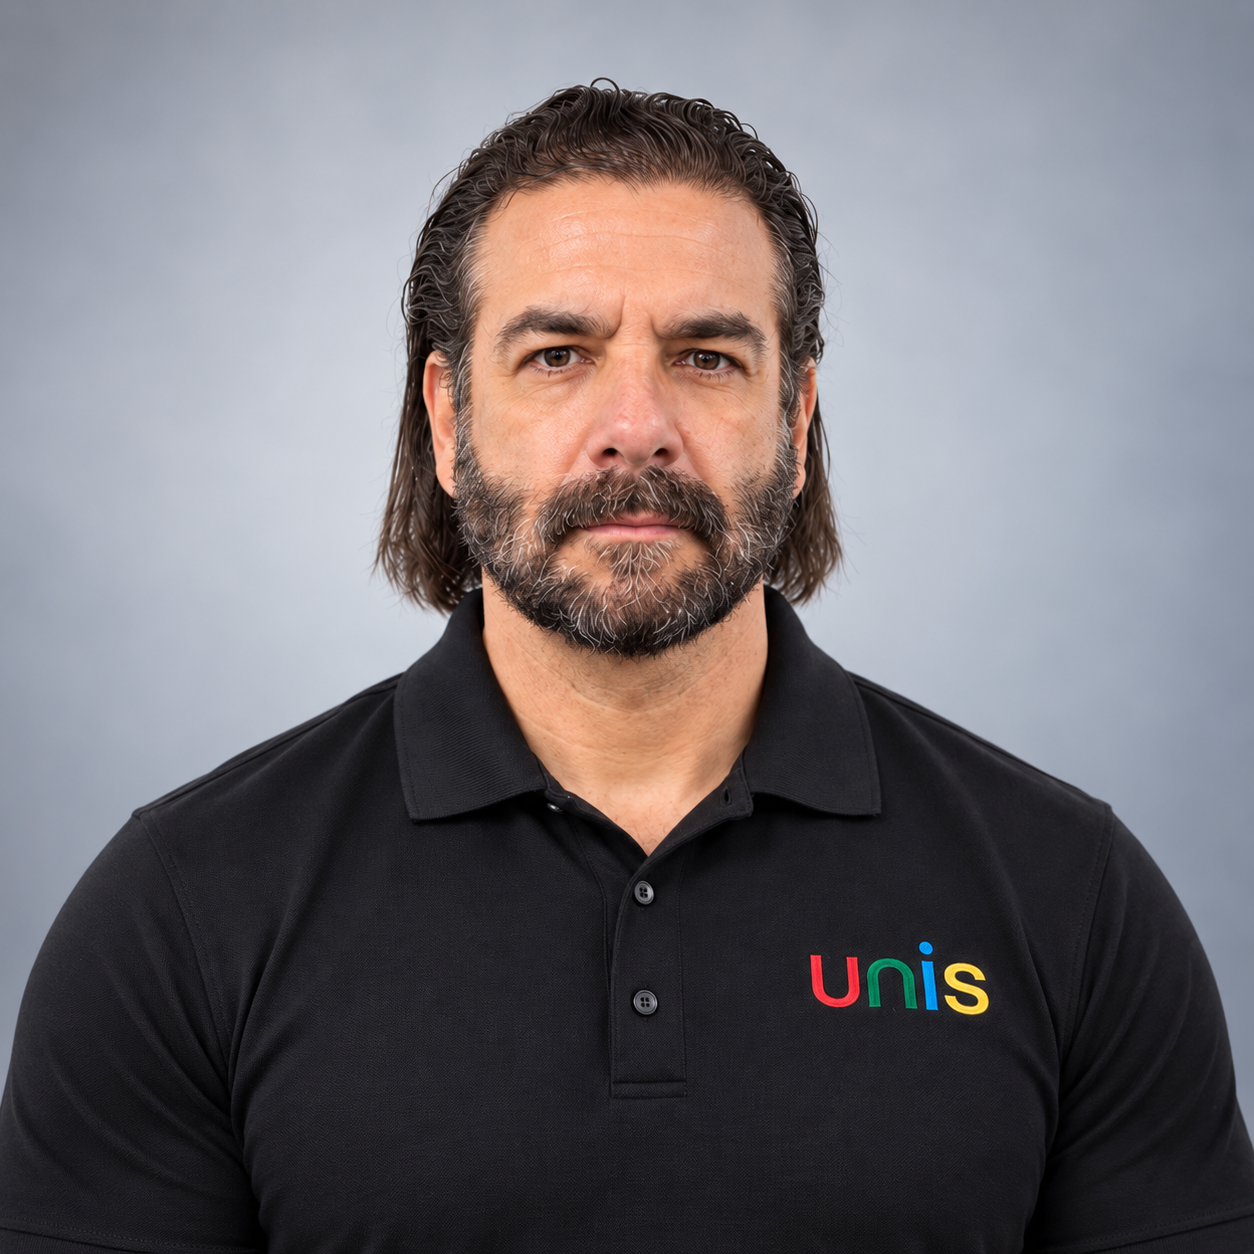
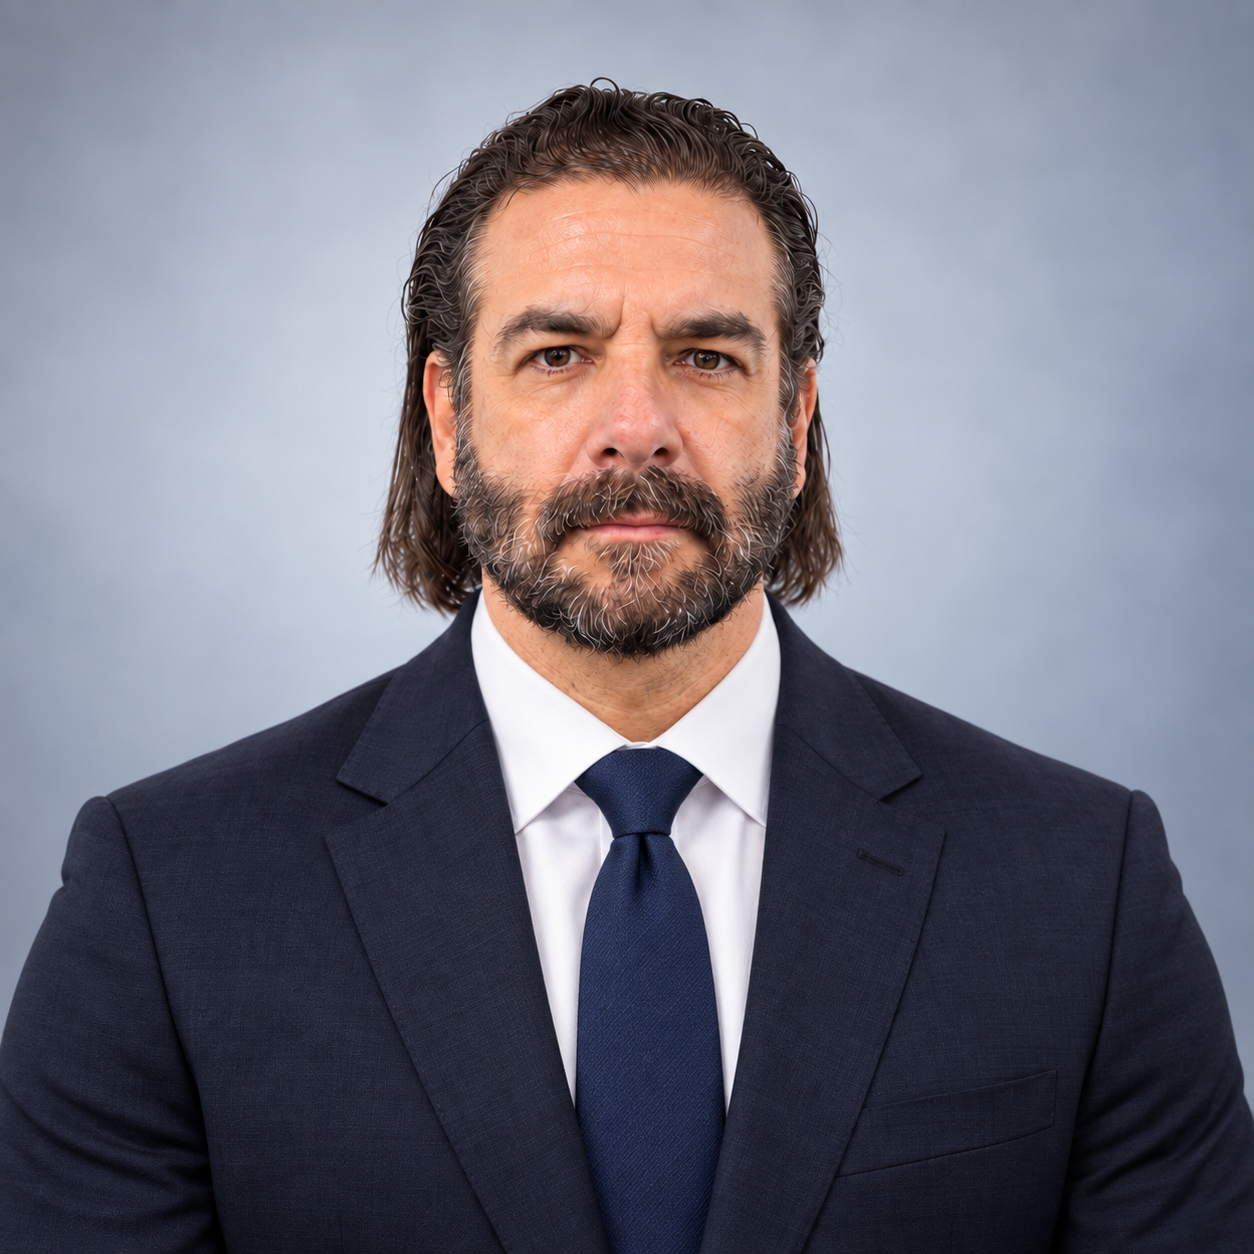
Update Ruben Jauregui portrait and correct John Diaz title
- Replace the Valley View portrait for Ruben Jauregui with the new
  user-supplied 1254x1254 photo (same asset path).
- Correct John Diaz's role to "Sr. Vice President of Operations" across
  all ten contact entries via a shared JOHN_DIAZ_ROLE constant, and note
  the user correction in each affected record's source line.
- Update e2e coverage for the new title (rendering, wrapping, PDF
  keywords) and the new portrait's source file.

diff --git a/src/data/facility-operations.ts b/src/data/facility-operations.ts
@@ -26,6 +26,8 @@ export type FacilityOperations = {
 
 export const JOHN_DIAZ_EMAIL = 'john.diaz@unisco.com'
 export const JOHN_DIAZ_PHOTO_URL = '/media/operations/people/john-diaz.png'
+export const JOHN_DIAZ_ROLE = 'Sr. Vice President of Operations'
+export const JOHN_DIAZ_TITLE_SOURCE_NOTE = 'John Diaz title corrected by user on 2026-09-30.'
 
 const sheetContact = (
   sourceColumn: string,
@@ -48,7 +50,7 @@ const sheetContact = (
 const sheetOperations = (facilityId: string, sourceRow: number, contacts: FacilityContact[]): FacilityOperations => ({
   facilityId,
   sourceRow,
-  source: `User-provided facility contact sheet, row ${sourceRow}`,
+  source: `User-provided facility contact sheet, row ${sourceRow}${contacts.some((contact) => contact.email.trim().toLowerCase() === JOHN_DIAZ_EMAIL) ? ` · ${JOHN_DIAZ_TITLE_SOURCE_NOTE}` : ''}`,
   contacts,
 })
 
@@ -67,7 +69,7 @@ export const facilitiesNeedingOperationsContactReview = [
 export const facilityOperations: Partial<Record<string, FacilityOperations>> = {
   'buena-park-valley-view': {
     facilityId: 'buena-park-valley-view',
-    source: 'User-provided facility contact sheet, row 5',
+    source: `User-provided facility contact sheet, row 5 · ${JOHN_DIAZ_TITLE_SOURCE_NOTE}`,
     sourceRow: 5,
     contacts: [
       {
@@ -111,7 +113,7 @@ export const facilityOperations: Partial<Record<string, FacilityOperations>> = {
       {
         id: 'john-diaz',
         group: 'operations',
-        role: 'VP of Operations',
+        role: JOHN_DIAZ_ROLE,
         name: 'John Diaz',
         email: JOHN_DIAZ_EMAIL,
         photoUrl: JOHN_DIAZ_PHOTO_URL,
@@ -122,20 +124,20 @@ export const facilityOperations: Partial<Record<string, FacilityOperations>> = {
     sheetContact('D', 'account-management', 'Manager of Account Management & Client Onboarding', 'Michelle Topete', 'michelle.topete@unisco.com', [{ label: 'Phone', display: '626.829.3160', href: '+16268293160' }]),
     sheetContact('E', 'account-management', 'Sr Director of Account Management & Client Onboarding', 'Mary Smothers', 'mary.smothers@unisco.com', [{ label: 'Phone', display: '626-899-2363', href: '+16268992363' }]),
     sheetContact('F', 'operations', 'General Manager', 'Oscar Rodriguez', 'oscar.rodriguez@unisco.com', [{ label: 'Phone', display: '951-374-2495', href: '+19513742495' }]),
-    sheetContact('H', 'operations', 'VP of Operations', 'John Diaz', 'john.diaz@unisco.com'),
+    sheetContact('H', 'operations', JOHN_DIAZ_ROLE, 'John Diaz', 'john.diaz@unisco.com'),
     sheetContact('J', 'operations', 'Regional Director of Field Operations', 'Harold Cuarezma', 'harold.cuarezma@unisco.com', [{ label: 'Cell', display: '909-753-6346', href: '+19097536346' }, { label: 'Mobile', display: '626-362-9596', href: '+16263629596' }]),
   ]),
   'moreno-valley-heacock': sheetOperations('moreno-valley-heacock', 8, [
     sheetContact('D', 'account-management', 'Manager of Account Management & Client Onboarding', 'Michelle Topete', 'michelle.topete@unisco.com', [{ label: 'Phone', display: '626.829.3160', href: '+16268293160' }]),
     sheetContact('E', 'account-management', 'Sr Director of Account Management & Client Onboarding', 'Mary Smothers', 'mary.smothers@unisco.com', [{ label: 'Phone', display: '626-899-2363', href: '+16268992363' }]),
     sheetContact('F', 'operations', 'General Manager', 'Oscar Rodriguez', 'oscar.rodriguez@unisco.com'),
-    sheetContact('H', 'operations', 'VP of Operations', 'John Diaz', 'john.diaz@unisco.com'),
+    sheetContact('H', 'operations', JOHN_DIAZ_ROLE, 'John Diaz', 'john.diaz@unisco.com'),
     sheetContact('J', 'operations', 'Regional Director of Field Operations', 'Harold Cuarezma', 'harold.cuarezma@unisco.com', [{ label: 'Cell', display: '909-753-6346', href: '+19097536346' }, { label: 'Mobile', display: '626-362-9596', href: '+16263629596' }]),
   ]),
   'houston-citypark': sheetOperations('houston-citypark', 20, [
     sheetContact('D', 'account-management', 'Manager of Account Management & Client Onboarding', 'Michelle Topete', 'michelle.topete@unisco.com', [{ label: 'Phone', display: '626.829.3160', href: '+16268293160' }]),
     sheetContact('E', 'account-management', 'Sr Director of Account Management & Client Onboarding', 'Mary Smothers', 'mary.smothers@unisco.com', [{ label: 'Phone', display: '626-899-2363', href: '+16268992363' }]),
-    sheetContact('H', 'operations', 'VP of Operations', 'John Diaz', 'john.diaz@unisco.com'),
+    sheetContact('H', 'operations', JOHN_DIAZ_ROLE, 'John Diaz', 'john.diaz@unisco.com'),
   ]),
   'roanoke-highway-114': sheetOperations('roanoke-highway-114', 23, [
     sheetContact('D', 'account-management', 'Manager of Account Management & Client Onboarding', 'Michelle Topete', 'michelle.topete@unisco.com', [{ label: 'Phone', display: '626.829.3160', href: '+16268293160' }]),
@@ -152,14 +154,14 @@ export const facilityOperations: Partial<Record<string, FacilityOperations>> = {
   'tacoma-lincoln': sheetOperations('tacoma-lincoln', 25, [
     sheetContact('D', 'account-management', 'Manager of Account Management & Client Onboarding', 'Michelle Topete', 'michelle.topete@unisco.com', [{ label: 'Phone', display: '626.829.3160', href: '+16268293160' }]),
     sheetContact('E', 'account-management', 'Sr Director of Account Management & Client Onboarding', 'Mary Smothers', 'mary.smothers@unisco.com', [{ label: 'Phone', display: '626-899-2363', href: '+16268992363' }]),
-    sheetContact('H', 'operations', 'VP of Operations', 'John Diaz', 'john.diaz@unisco.com'),
+    sheetContact('H', 'operations', JOHN_DIAZ_ROLE, 'John Diaz', 'john.diaz@unisco.com'),
     sheetContact('I', 'operations', 'POC as requested by John Diaz', 'Juan Barragan', 'juan.barragan@unisco.com', [{ label: 'Phone', display: '657-509-0607', href: '+16575090607' }]),
     sheetContact('J', 'operations', 'Regional Director of Field Operations', 'Harold Cuarezma', 'harold.cuarezma@unisco.com', [{ label: 'Cell', display: '909-753-6346', href: '+19097536346' }, { label: 'Mobile', display: '626-362-9596', href: '+16263629596' }]),
   ]),
   'tacoma-steele': sheetOperations('tacoma-steele', 26, [
     sheetContact('D', 'account-management', 'Manager of Account Management & Client Onboarding', 'Michelle Topete', 'michelle.topete@unisco.com', [{ label: 'Phone', display: '626.829.3160', href: '+16268293160' }]),
     sheetContact('E', 'account-management', 'Sr Director of Account Management & Client Onboarding', 'Mary Smothers', 'mary.smothers@unisco.com', [{ label: 'Phone', display: '626-899-2363', href: '+16268992363' }]),
-    sheetContact('H', 'operations', 'VP of Operations', 'John Diaz', 'john.diaz@unisco.com'),
+    sheetContact('H', 'operations', JOHN_DIAZ_ROLE, 'John Diaz', 'john.diaz@unisco.com'),
     sheetContact('I', 'operations', 'POC as requested by John Diaz', 'Juan Barragan', 'juan.barragan@unisco.com', [{ label: 'Phone', display: '657-509-0607', href: '+16575090607' }]),
     sheetContact('J', 'operations', 'Regional Director of Field Operations', 'Harold Cuarezma', 'harold.cuarezma@unisco.com', [{ label: 'Cell', display: '909-753-6346', href: '+19097536346' }, { label: 'Mobile', display: '626-362-9596', href: '+16263629596' }]),
   ]),
@@ -181,7 +183,7 @@ export const facilityOperations: Partial<Record<string, FacilityOperations>> = {
     sheetContact('D', 'account-management', 'Manager of Account Management & Client Onboarding', 'Michelle Topete', 'michelle.topete@unisco.com', [{ label: 'Phone', display: '626.829.3160', href: '+16268293160' }]),
     sheetContact('E', 'account-management', 'Sr Director of Account Management & Client Onboarding', 'Mary Smothers', 'mary.smothers@unisco.com', [{ label: 'Phone', display: '626-899-2363', href: '+16268992363' }]),
     sheetContact('F', 'operations', 'General Manager', 'Efrain Islas', 'efrain.islas@unisco.com', [{ label: 'Phone', display: '626-313-8756', href: '+16263138756' }]),
-    sheetContact('H', 'operations', 'VP of Operations', 'John Diaz', 'john.diaz@unisco.com'),
+    sheetContact('H', 'operations', JOHN_DIAZ_ROLE, 'John Diaz', 'john.diaz@unisco.com'),
   ]),
   'joliet-brandon': sheetOperations('joliet-brandon', 13, [
     sheetContact('D', 'account-management', 'Manager of Account Management & Client Onboarding', 'Michelle Topete', 'michelle.topete@unisco.com', [{ label: 'Phone', display: '626.829.3160', href: '+16268293160' }]),
@@ -197,21 +199,21 @@ export const facilityOperations: Partial<Record<string, FacilityOperations>> = {
   'waddell-cotton': sheetOperations('waddell-cotton', 3, [
     sheetContact('D', 'account-management', 'Manager of Account Management & Client Onboarding', 'Michelle Topete', 'michelle.topete@unisco.com', [{ label: 'Phone', display: '626.829.3160', href: '+16268293160' }]),
     sheetContact('E', 'account-management', 'Sr Director of Account Management & Client Onboarding', 'Mary Smothers', 'mary.smothers@unisco.com', [{ label: 'Phone', display: '626-899-2363', href: '+16268992363' }]),
-    sheetContact('H', 'operations', 'VP of Operations', 'John Diaz', 'john.diaz@unisco.com'),
+    sheetContact('H', 'operations', JOHN_DIAZ_ROLE, 'John Diaz', 'john.diaz@unisco.com'),
     sheetContact('J', 'operations', 'Regional Director of Field Operations', 'Harold Cuarezma', 'harold.cuarezma@unisco.com', [{ label: 'Cell', display: '909-753-6346', href: '+19097536346' }, { label: 'Mobile', display: '626-362-9596', href: '+16263629596' }]),
   ]),
   'ontario-airport': sheetOperations('ontario-airport', 7, [
     sheetContact('D', 'account-management', 'Manager of Account Management & Client Onboarding', 'Michelle Topete', 'michelle.topete@unisco.com', [{ label: 'Phone', display: '626.829.3160', href: '+16268293160' }]),
     sheetContact('E', 'account-management', 'Sr Director of Account Management & Client Onboarding', 'Mary Smothers', 'mary.smothers@unisco.com', [{ label: 'Phone', display: '626-899-2363', href: '+16268992363' }]),
     sheetContact('F', 'operations', 'General Manager', 'Oscar Rodriguez', 'oscar.rodriguez@unisco.com'),
-    sheetContact('H', 'operations', 'VP of Operations', 'John Diaz', 'john.diaz@unisco.com'),
+    sheetContact('H', 'operations', JOHN_DIAZ_ROLE, 'John Diaz', 'john.diaz@unisco.com'),
     sheetContact('J', 'operations', 'Regional Director of Field Operations', 'Harold Cuarezma', 'harold.cuarezma@unisco.com', [{ label: 'Cell', display: '909-753-6346', href: '+19097536346' }, { label: 'Mobile', display: '626-362-9596', href: '+16263629596' }]),
   ]),
   'sparks-vista': sheetOperations('sparks-vista', 15, [
     sheetContact('D', 'account-management', 'Manager of Account Management & Client Onboarding', 'Michelle Topete', 'michelle.topete@unisco.com', [{ label: 'Phone', display: '626.829.3160', href: '+16268293160' }]),
     sheetContact('E', 'account-management', 'Sr Director of Account Management & Client Onboarding', 'Mary Smothers', 'mary.smothers@unisco.com', [{ label: 'Phone', display: '626-899-2363', href: '+16268992363' }]),
     sheetContact('F', 'operations', 'General Manager', 'Onoriode Enaigbe', 'onoriode.enaigbe@unisco.com', [{ label: 'Cell', display: '(626) 996-5604', href: '+16269965604' }]),
-    sheetContact('H', 'operations', 'VP of Operations', 'John Diaz', 'john.diaz@unisco.com'),
+    sheetContact('H', 'operations', JOHN_DIAZ_ROLE, 'John Diaz', 'john.diaz@unisco.com'),
     sheetContact('I', 'operations', 'POC as requested by John Diaz', 'Juan Barragan', 'juan.barragan@unisco.com', [{ label: 'Phone', display: '657-509-0607', href: '+16575090607' }]),
     sheetContact('J', 'operations', 'Regional Director of Field Operations', 'Harold Cuarezma', 'harold.cuarezma@unisco.com', [{ label: 'Cell', display: '909-753-6346', href: '+19097536346' }, { label: 'Mobile', display: '626-362-9596', href: '+16263629596' }]),
   ]),

diff --git a/tests/dashboard.spec.ts b/tests/dashboard.spec.ts
@@ -11,6 +11,8 @@ import {
   facilityOperations,
   JOHN_DIAZ_EMAIL,
   JOHN_DIAZ_PHOTO_URL,
+  JOHN_DIAZ_ROLE,
+  JOHN_DIAZ_TITLE_SOURCE_NOTE,
 } from '../src/data/facility-operations'
 import { facilitySitePlans } from '../src/data/facility-site-plans'
 import { facilityAvailableSpace, formatAvailableSpaceMonth, getFacilitySquareFootage } from '../src/data/facility-space'
@@ -2010,7 +2012,8 @@ test('Operations sidecar maps 18 exact sheet rows, all 79 role entries, and exac
   for (const [facilityId, expected] of Object.entries(expectedOperationsRows)) {
     const record = facilityOperations[facilityId]
     expect(record?.sourceRow, facilityId).toBe(expected.row)
-    expect(record?.source, facilityId).toBe(`User-provided facility contact sheet, row ${expected.row}`)
+    const titleCorrection = expectedJohnDiazFacilityIds.some((id) => id === facilityId) ? ` · ${JOHN_DIAZ_TITLE_SOURCE_NOTE}` : ''
+    expect(record?.source, facilityId).toBe(`User-provided facility contact sheet, row ${expected.row}${titleCorrection}`)
     expect(new Set(record?.contacts.map((contact) => contact.id)).size, facilityId).toBe(record?.contacts.length)
     if (facilityId !== 'buena-park-valley-view') {
       expect(record?.contacts.map((contact) => contact.sourceColumn), facilityId).toEqual(expected.columns)
@@ -2039,8 +2042,19 @@ test('Operations sidecar maps 18 exact sheet rows, all 79 role entries, and exac
 
   const johnDiazReferences = Object.values(facilityOperations).flatMap((record) => record?.contacts
     .filter((contact) => contact.email.trim().toLowerCase() === JOHN_DIAZ_EMAIL)
-    .map((contact) => ({ facilityId: record.facilityId, name: contact.name, photoUrl: contact.photoUrl })) ?? [])
-  expect(johnDiazReferences).toEqual(expectedJohnDiazFacilityIds.map((facilityId) => ({ facilityId, name: 'John Diaz', photoUrl: JOHN_DIAZ_PHOTO_URL })))
+    .map((contact) => ({ facilityId: record.facilityId, name: contact.name, role: contact.role, photoUrl: contact.photoUrl, source: record.source })) ?? [])
+  expect(johnDiazReferences).toEqual(expectedJohnDiazFacilityIds.map((facilityId) => ({
+    facilityId,
+    name: 'John Diaz',
+    role: JOHN_DIAZ_ROLE,
+    photoUrl: JOHN_DIAZ_PHOTO_URL,
+    source: expect.stringContaining(JOHN_DIAZ_TITLE_SOURCE_NOTE),
+  })))
+
+  const otherVicePresidents = Object.values(facilityOperations).flatMap((record) => record?.contacts
+    .filter((contact) => contact.email !== JOHN_DIAZ_EMAIL && contact.role === 'VP of Operations')
+    .map((contact) => contact.name) ?? [])
+  expect(new Set(otherVicePresidents)).toEqual(new Set(['John Gleason', 'Javier Montane']))
 
   const otherPortraits = Object.values(facilityOperations).flatMap((record) => record?.contacts
     .filter((contact) => contact.email !== JOHN_DIAZ_EMAIL && contact.photoUrl)
@@ -2055,15 +2069,44 @@ test('Operations sidecar maps 18 exact sheet rows, all 79 role entries, and exac
   for (const facilityId of expectedOperationsReviewIds) expect(facilityOperations[facilityId]).toBeUndefined()
 })
 
+test('John Diaz corrected title renders exactly and wraps without clipping on desktop and mobile', async ({ page }) => {
+  const riverside = facilities.find((facility) => facility.id === 'riverside-alessandro')!
+  await chooseFromDirectory(page, riverside.fullAddress)
+  await page.getByRole('tab', { name: 'Operations' }).click()
+  const panel = page.getByRole('region', { name: `Operations contacts for ${riverside.fullAddress}` })
+  const john = panel.locator('.operations-contact-card').filter({ hasText: JOHN_DIAZ_EMAIL })
+  const role = john.locator('.operations-contact-role')
+
+  await expect(panel).toContainText(JOHN_DIAZ_TITLE_SOURCE_NOTE)
+  await expect(role).toHaveText(JOHN_DIAZ_ROLE)
+  await expect(panel.getByText('VP of Operations', { exact: true })).toHaveCount(0)
+
+  for (const viewport of [{ width: 1536, height: 900 }, { width: 390, height: 844 }]) {
+    await page.setViewportSize(viewport)
+    await role.scrollIntoViewIfNeeded()
+    const layout = await role.evaluate((element) => ({
+      horizontalClipping: element.scrollWidth > element.clientWidth + 1,
+      verticalClipping: element.scrollHeight > element.clientHeight + 1,
+      whiteSpace: getComputedStyle(element).whiteSpace,
+    }))
+    expect(layout).toEqual({ horizontalClipping: false, verticalClipping: false, whiteSpace: 'normal' })
+    const [cardBox, panelBox] = await Promise.all([john.boundingBox(), panel.boundingBox()])
+    expect(cardBox).not.toBeNull()
+    expect(panelBox).not.toBeNull()
+    expect(cardBox!.x).toBeGreaterThanOrEqual(panelBox!.x)
+    expect(cardBox!.x + cardBox!.width).toBeLessThanOrEqual(panelBox!.x + panelBox!.width + 1)
+  }
+})
+
 test('Valley View Operations preserves five contacts and its three supplied portraits', async ({ page }) => {
   const record = facilityOperations['buena-park-valley-view']
-  expect(record?.source).toBe('User-provided facility contact sheet, row 5')
+  expect(record?.source).toBe(`User-provided facility contact sheet, row 5 · ${JOHN_DIAZ_TITLE_SOURCE_NOTE}`)
   expect(record?.contacts).toEqual([
     expect.objectContaining({ group: 'account-management', role: 'Manager of Account Management & Client Onboarding', name: 'Michelle Topete', email: 'michelle.topete@unisco.com', phone: '626.829.3160' }),
     expect.objectContaining({ group: 'account-management', role: 'Sr Director of Account Management & Client Onboarding', name: 'Mary Smothers', email: 'mary.smothers@unisco.com', phone: '626-899-2363' }),
     expect.objectContaining({ group: 'operations', role: 'General Manager', name: 'Ruben Jauregui', email: 'ruben.jauregui@unisco.com', phone: '562-644-4594', photoUrl: '/media/operations/buena-park-valley-view/ruben-jauregui.png' }),
     expect.objectContaining({ group: 'operations', role: 'Director of Operations', name: 'Mark Tuttle', email: 'mark.tuttle@unisco.com', phone: '657-689-6951', photoUrl: '/media/operations/buena-park-valley-view/mark-tuttle.png' }),
-    expect.objectContaining({ group: 'operations', role: 'VP of Operations', name: 'John Diaz', email: JOHN_DIAZ_EMAIL, photoUrl: JOHN_DIAZ_PHOTO_URL }),
+    expect.objectContaining({ group: 'operations', role: JOHN_DIAZ_ROLE, name: 'John Diaz', email: JOHN_DIAZ_EMAIL, photoUrl: JOHN_DIAZ_PHOTO_URL }),
   ])
   const johnRecord = record?.contacts.find((contact) => contact.id === 'john-diaz')
   expect(johnRecord).not.toHaveProperty('phone')
@@ -2083,7 +2126,7 @@ test('Valley View Operations preserves five contacts and its three supplied port
   await expect(panel.locator('.operations-contact-card img')).toHaveCount(3)
 
   for (const [name, assetUrl, sourcePath] of [
-    ['Ruben Jauregui', '/media/operations/buena-park-valley-view/ruben-jauregui.png', '/home/user/workspace/ruben.png'],
+    ['Ruben Jauregui', '/media/operations/buena-park-valley-view/ruben-jauregui.png', '/home/user/workspace/ChatGPT Image Sep 30, 2026, 01_17_19 PM (1).png'],
     ['Mark Tuttle', '/media/operations/buena-park-valley-view/mark-tuttle.png', '/home/user/workspace/mark.png'],
     ['John Diaz', JOHN_DIAZ_PHOTO_URL, '/home/user/workspace/ChatGPT Image Sep 29, 2026, 09_16_25 PM.png'],
   ] as const) {
@@ -2119,7 +2162,7 @@ test('Valley View Operations preserves five contacts and its three supplied port
   }
 
   const john = panel.locator('.operations-contact-card').filter({ hasText: 'John Diaz' })
-  await expect(john).toContainText('VP of Operations')
+  await expect(john.locator('.operations-contact-role')).toHaveText(JOHN_DIAZ_ROLE)
   await expect(john.getByRole('img', { name: 'Portrait of John Diaz' })).toHaveAttribute('src', JOHN_DIAZ_PHOTO_URL)
   await expect(john.getByRole('link', { name: JOHN_DIAZ_EMAIL })).toHaveAttribute('href', `mailto:${JOHN_DIAZ_EMAIL}`)
   await expect(john).toContainText('Phone not provided')
@@ -2137,6 +2180,7 @@ test('matched Operations contacts retain representative roles, links, multiple p
   await expect(riversidePanel.locator('.operations-contact-card img')).toHaveCount(1)
   await expect(riversidePanel.locator('.operations-contact-photo.is-blank')).toHaveCount(4)
   const riversideJohn = riversidePanel.locator('.operations-contact-card').filter({ hasText: JOHN_DIAZ_EMAIL })
+  await expect(riversideJohn.locator('.operations-contact-role')).toHaveText(JOHN_DIAZ_ROLE)
   await expect(riversideJohn.getByRole('img', { name: 'Portrait of John Diaz' })).toHaveAttribute('src', JOHN_DIAZ_PHOTO_URL)
   const harold = riversidePanel.locator('.operations-contact-card').filter({ hasText: 'Harold Cuarezma' })
   await expect(harold).toContainText('Regional Director of Field Operations')
@@ -2284,12 +2328,15 @@ test('facility profile downloads are four-page selected-facility PDFs with hours
   expect(seabrook.assetPaths).toEqual(['/media/pooler-seabrook-building-2.jpg'])
 })
 
-test('facility profile Page 1 prints selected contacts, every phone, and no staff portraits', async ({ page }) => {
+test('facility profile Page 1 prints John Diaz corrected title, selected contacts, every phone, and no staff portraits', async ({ page }) => {
   test.setTimeout(120_000)
 
   const sparksFacility = facilities.find((facility) => facility.id === 'sparks-vista')!
   const sparks = await downloadFacilityProfile(page, sparksFacility.fullAddress, 'facility-22-sparks-vista-profile.pdf')
   expectVisiblePdfContacts(sparks.visibleText, 'sparks-vista')
+  expect(sparks.visibleText).toContain(JOHN_DIAZ_ROLE)
+  expect(sparks.keywords).toContain(JOHN_DIAZ_ROLE)
+  expect(sparks.keywords).toContain(JOHN_DIAZ_TITLE_SOURCE_NOTE)
   expect(sparks.visibleText).not.toContain('Ruben Jauregui')
   expect(sparks.visibleText).not.toContain('Mark Tuttle')
   expect(sparks.assetPaths.some((path) => path.startsWith('/media/operations/'))).toBe(false)
